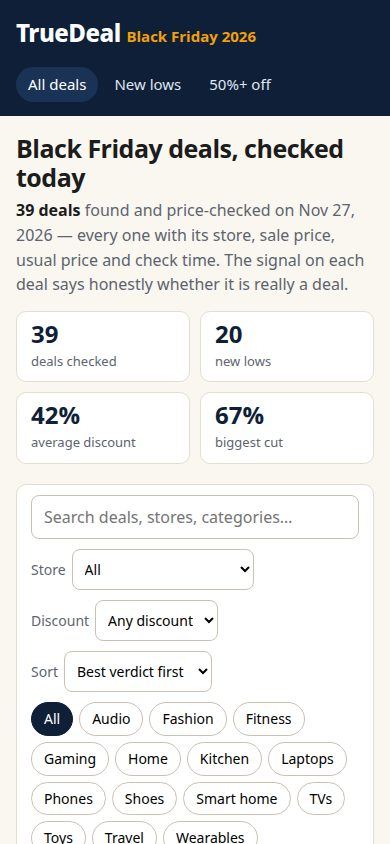
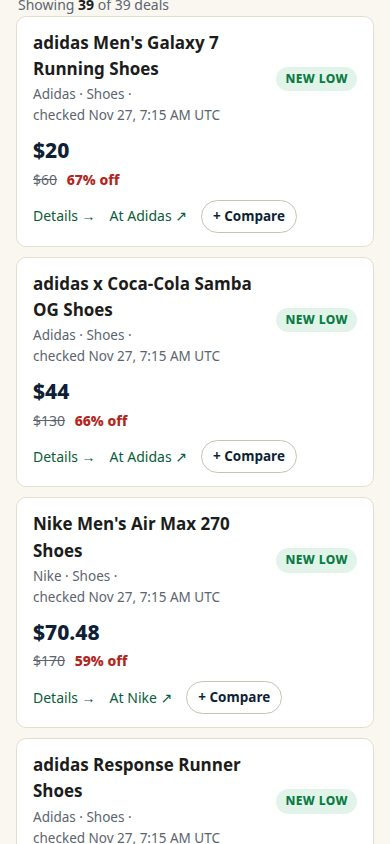
TrueDeal: compare bar sticky in-flow, never covers a deal row

Changed region(s): [[0.0, 0.0, 1.0, 0.5545], [0.0615, 0.4621, 0.9231, 1.0], [0.8923, 0.5853, 0.9231, 0.6161]]

diff --git a/app/style.css b/app/style.css
@@ -235,14 +235,13 @@ footer p { margin: 6px 0; }
 .cmp-btn[aria-pressed="true"] { background: var(--green-bg); border-color: var(--green); color: var(--green); }
 .cmp-btn:disabled { opacity: 0.45; cursor: default; }
 .cmp-hint { font-size: 14px; color: var(--muted); }
-#compare-bar { margin-top: 14px; }
+#compare-bar { position: sticky; top: 0; z-index: 20; margin: 0 0 12px; }
+#compare-bar:empty { display: none; }
+/* When the bar is open, the list gets bottom padding as tall as the bar, so the
+   last row can always be scrolled fully clear of it. */
+body.compare-open #app { padding-bottom: 96px; }
 .compare-bar-inner {
-  position: fixed;
-  left: 50%;
-  transform: translateX(-50%);
-  bottom: 12px;
-  z-index: 20;
-  width: min(1060px, calc(100% - 32px));
+  width: 100%;
   display: flex;
   gap: 10px;
   align-items: center;

diff --git a/app/main.js b/app/main.js
@@ -112,6 +112,9 @@ function wireList() {
 function syncCompare() {
   const bar = app.querySelector("#compare-bar");
   if (bar) bar.innerHTML = barHtml(pickedDeals(deals));
+  // The bar is sticky at the top of the list, and the list gets bottom padding
+  // as tall as the bar while it is open, so no deal row ever sits under it.
+  document.body.classList.toggle("compare-open", count() > 0);
   app.querySelectorAll(".cmp-btn").forEach((b) => {
     if (!b.dataset.id) return;
     const on = has(b.dataset.id);

diff --git a/app/views.js b/app/views.js
@@ -74,8 +74,8 @@ export function list(deals, shown, state) {
 </div>
 ${filterBar(deals, state)}
 <p class="count">Showing <b>${shown.length}</b> of ${deals.length} deals</p>
-<ul class="deals">${rows(shown)}</ul>
-<div id="compare-bar"></div>`;
+<div id="compare-bar"></div>
+<ul class="deals">${rows(shown)}</ul>`;
 }
 
 export function deal(d, related) {
